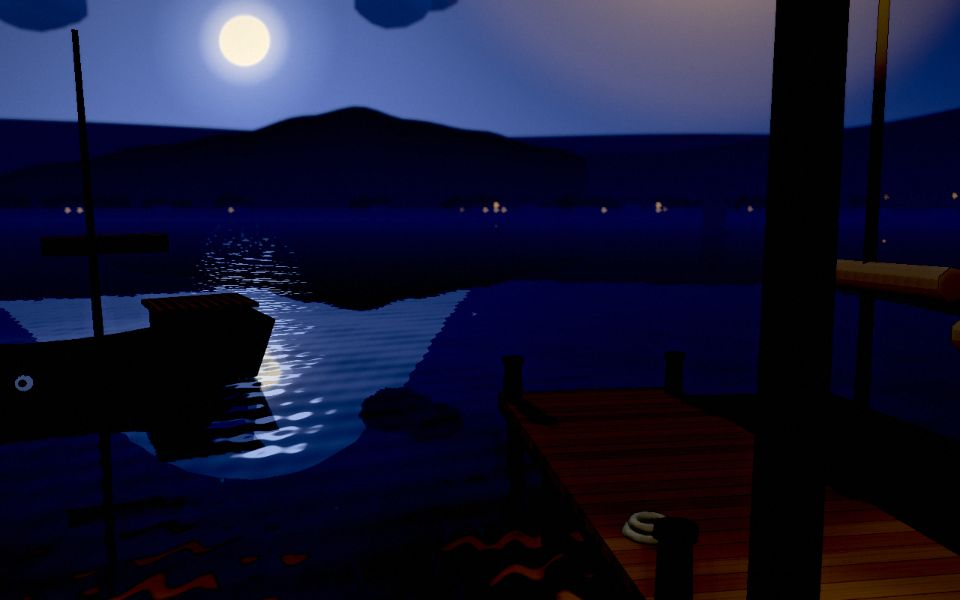
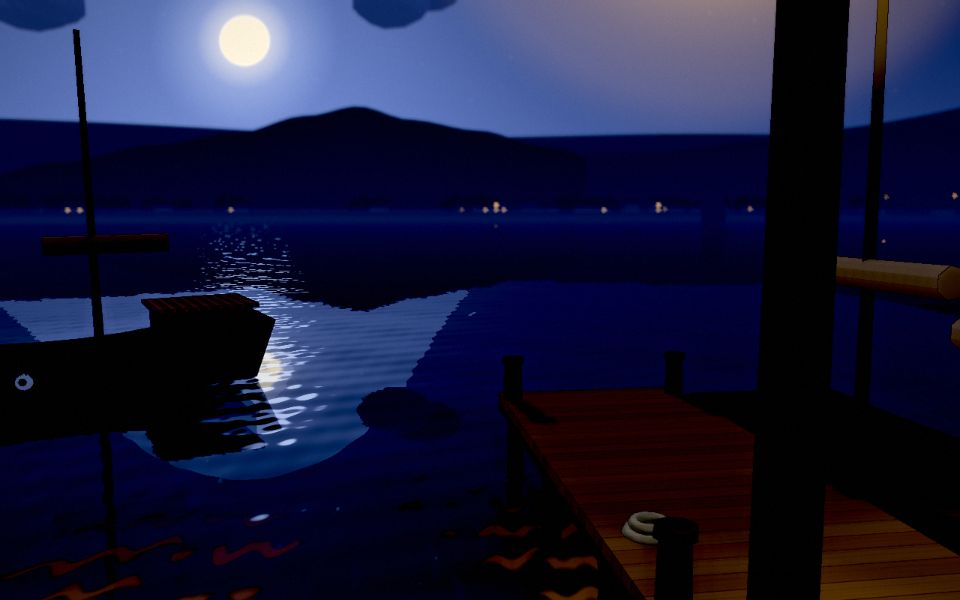
夜晚: 酒樓繁華與摩登的夜晚調亮、老屋新生的雨夜不再灰
- 年代的夜間曝光：酒樓繁華 ×2.1、摩登 ×1.75
- 雨夜時顏色只往灰色洗 25%；老屋新生夜裡的暗部提亮 0.025 → 0.012
- 只改精緻畫質；夜晚、雨勢為 0 時光線逐位不變

diff --git a/src/game/night.js b/src/game/night.js
@@ -144,7 +144,7 @@ export const NIGHT_ERAS = {
     // 燈籠多、光暈大：夜裡調小一點，不然一團一團的光暈讓整條街像蒙了一層霧
     lanternGlow: 0.6,
     lift: 0.04,
-    exposure: 1.75,
+    exposure: 2.1,
     windowTint: '#ffb866',
     tintAmount: 0.4,
     electric: true,
@@ -158,6 +158,7 @@ export const NIGHT_ERAS = {
     glow: 1.0,
     lanternGlow: 0.8,
     lift: 0.035,
+    exposure: 1.75,
     windowTint: '#ffc878',
     tintAmount: 0.35,
     electric: true,
@@ -183,7 +184,7 @@ export const NIGHT_ERAS = {
   revival: {
     glow: 1.0,
     lanternGlow: 0.85,
-    lift: 0.025,
+    lift: 0.012,
     windowTint: '#ffc98a',
     tintAmount: 0.3,
     electric: true,

diff --git a/src/game/atmosphere.js b/src/game/atmosphere.js
@@ -126,7 +126,8 @@ function applyRain(current, amount, night) {
   for (const [key, look, tint] of RAIN_COLORS) {
     const color = current[key]
     const l = color.r * 0.2126 + color.g * 0.7152 + color.b * 0.0722
-    color.lerp(_gray.setRGB(l, l, l), look.gray * t).multiplyScalar(1 + (look.dark - 1) * t)
+    // 雨夜：顏色不往灰色洗（夜色本來就暗，再去飽和只會灰濛濛）
+    color.lerp(_gray.setRGB(l, l, l), look.gray * t * (1 - 0.75 * night)).multiplyScalar(1 + (look.dark - 1) * t)
     if (tint) color.lerp(tint, look.mix * t * (1 - 0.85 * night))
   }
 }

diff --git a/README.md b/README.md
@@ -1224,6 +1224,7 @@ node tests/e2e/era-switching.e2e.mjs http://127.0.0.1:4173/
 
 ## 測試狀態
 
+- 夜晚亮度與雨夜偏灰的再調整（第 14 階段，只在精緻畫質，使用者意見）：年代的夜間曝光酒樓繁華 ×2.1、摩登 ×1.75（太黑看不到）；雨夜時天色與燈光的顏色只往灰色洗 25%、老屋新生夜裡的暗部提亮 0.025 → 0.012（太灰）。`npm test` 全部通過；對照在 `docs/lookbook/night-gray/after/`。
 - 夜晚與雨夜偏灰的修正（第 14 階段，只在精緻畫質）：雨夜時雨天的霧、空氣、河面薄霧、暈影與降低的對比、飽和、曝光只套用兩成（`atmosphere.js` 的 `RAIN_HAZE_KEYS`）；夜晚的光暈加強 0.25 → 0.1、酒樓繁華夜裡的燈籠 0.8 → 0.6、曝光 ×1.75（使用者反映太黑看不到）。另補上第 14 階段 25 筆出處的英文欄位（和英文版 #77 合併後 `englishCoverage` 測試會擋）。`npm test` 1036 項全部通過；前後對照 `docs/lookbook/night-gray/`。
 - 隔岸天際線（第 14 階段，只在精緻畫質）：新增 `tests/oppositeBank.test.js` 12 項與 `tests/e2e/skyline.e2e.mjs`（24／24 通過）；`tests/night.test.js` 多 1 項（夜晚的暗部提亮依年代）。繪製呼叫（SwiftShader、1280×800、河岸視角）：精緻畫質每個年代多 2 次（對岸一次、畫進河面倒映一次）：港口商街 205 → 207、酒樓繁華 184 → 186、摩登 184 → 186、庶民生活 192 → 194、老屋新生 183 → 185；流暢畫質不建立、不編譯。同一個 PR 依審查意見調整了夜晚：港口商街的河岸整片偏灰霧，原因是暗部提亮（`lift`）、往月亮方向的月暈色與河面薄霧；改成暗部提亮依年代（清末 0.012、酒樓繁華 0.04、摩登 0.035、其他 0.025）、月暈色 0.03、河面薄霧 0.18，前後對照在 `docs/lookbook/night/after/`（調整前）與 `tuned/`（調整後）。夜晚 0 時光線仍逐位不變。前後對照 `docs/lookbook/skyline/`。**沒有在桌面實機量幀率**；iPad 不受影響。
 - 夜晚（第 14 階段，只在精緻畫質）：新增 `tests/night.test.js` 12 項與 `tests/e2e/night.e2e.mjs`（41／41 通過）；既有測試不需修改。繪製呼叫（SwiftShader、1280×800、一個影格所有 pass 的總數）：**流暢畫質帶不帶 `?time=night` 完全相同**（港口商街 161／161、摩登 163／163）；精緻畫質白天 → 夜晚，街道遠景：港口商街 187 → 194（+7）、酒樓繁華 212 → 213（+1）、摩登 184 → 185（+1）、庶民生活 225 → 232（+7）、老屋新生 276 → 285（+9）；河岸 235 → 245、201 → 202、198 → 199、205 → 211、189 → 204。多出來的是月亮一次，加上白天的年代入夜後開始做燈光落點那一趟；河岸多的是月亮與燈火畫進河面倒映。前後對照 `docs/lookbook/night/`（`after-rain/` 是雨夜）。**沒有在桌面實機量幀率**；iPad 不受影響（流暢畫質不掛載）。
